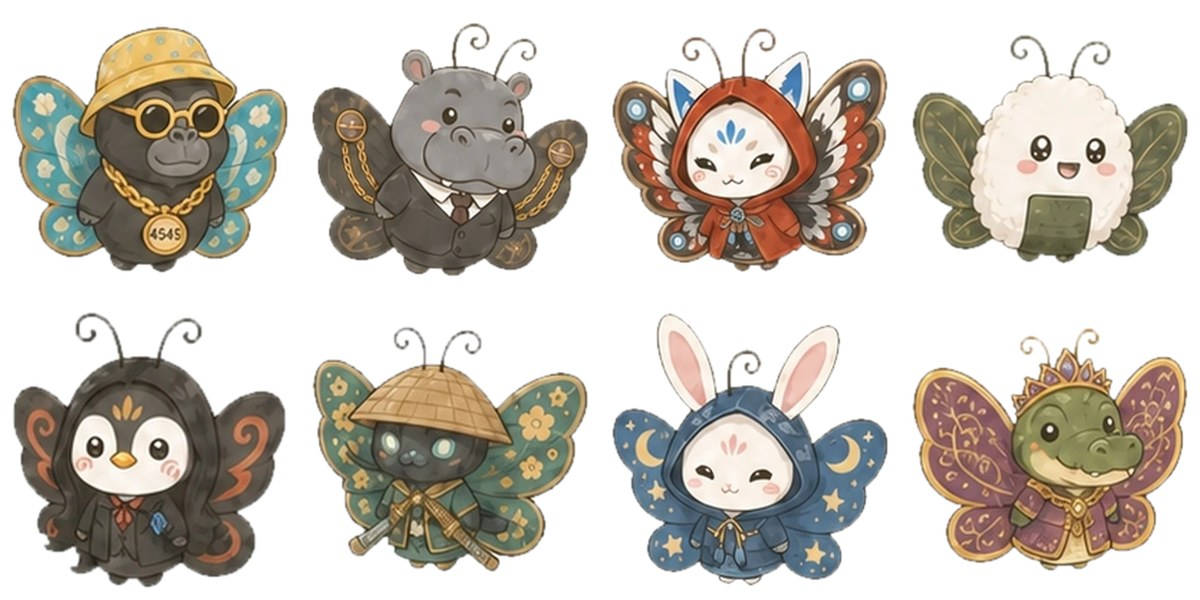
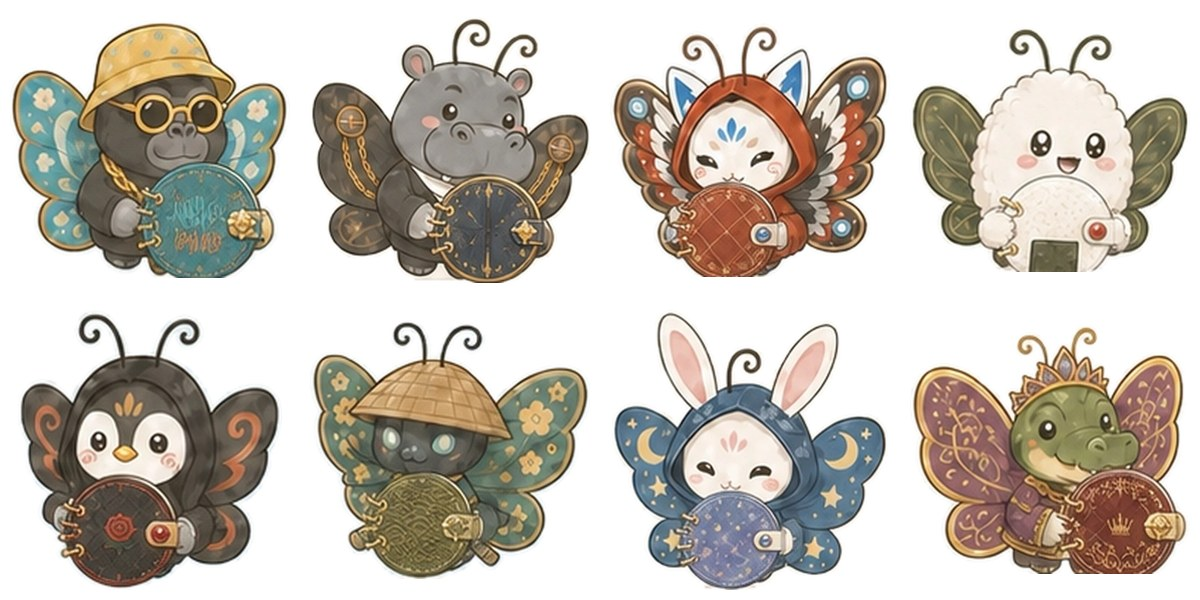
Jupiter: butterflies hug round sticker books (new art); tapping one opens the book with posts as round stickers
Claude-Session: https://claude.ai/code/session_019m5fyPtDtkNLRoPz7v9VsW

diff --git a/apps/web/components/jupiter/PatapataWorld.tsx b/apps/web/components/jupiter/PatapataWorld.tsx
@@ -450,22 +450,37 @@ export function PatapataWorld({ events, overlay, topInset = 0, live = false }: {
   );
 }
 
-/** Someone's posts of the last 88 hours, one after another (like stories). */
+/** Leather colours for the sticker-book covers (picked per person). */
+const COVERS = ['#3b2a20', '#22324a', '#6b2a22', '#2f4a3a', '#4a2f4f', '#5a4626', '#1f3f46'];
+const coverOf = (f: Flyer) => f.wing && !f.art && !f.src ? f.wing : COVERS[[...f.key].reduce((n, c) => n + c.charCodeAt(0), 0) % COVERS.length];
+
+/**
+ * Someone's posts as a round sticker book (client design 2026-10-07: every butterfly hugs one).
+ * The book pops out, its cover swings open, and each post is a round sticker on a round page;
+ * tap the right / left half (or つぎへ) to turn the pages.
+ */
 function StoryViewer({ flyer, start, onClose, onStar, onTree }: { flyer: Flyer; start: number; onClose: () => void; onStar: (p: ViewPost) => void; onTree?: () => void }) {
   const [i, setI] = useState(start);
+  const [dir, setDir] = useState(0);
   const post = flyer.posts[i];
-  const next = () => (i + 1 < flyer.posts.length ? setI(i + 1) : onClose());
-  const prev = () => setI(Math.max(0, i - 1));
+  const next = () => {
+    if (i + 1 >= flyer.posts.length) return onClose();
+    setDir(1);
+    setI(i + 1);
+  };
+  const prev = () => {
+    if (i === 0) return;
+    setDir(-1);
+    setI(i - 1);
+  };
   if (!post) return null;
+  const cover = coverOf(flyer);
+  const tilt = ((i * 37) % 9) - 4;
   return (
-    <div className="absolute inset-0 z-50 flex flex-col items-center justify-center bg-[#5b4330]/55 px-5 backdrop-blur-sm" onClick={onClose}>
-      <div className="w-full max-w-md rounded-[2rem] bg-[#fffaf2] p-5 shadow-2xl" onClick={(e) => e.stopPropagation()}>
-        <div className="mb-3 flex gap-1">
-          {flyer.posts.map((p, k) => (
-            <span key={p.id} className={`h-1 flex-1 rounded-full ${k <= i ? 'bg-amber-400' : 'bg-amber-100'}`} />
-          ))}
-        </div>
-        <div className="mb-3 flex items-center gap-2">
+    <div className="absolute inset-0 z-50 flex flex-col items-center justify-center bg-[#5b4330]/60 px-4 backdrop-blur-sm" onClick={onClose}>
+      <div className="flex w-full max-w-md flex-col items-center" onClick={(e) => e.stopPropagation()}>
+        {/* who */}
+        <div className="mb-3 flex w-full items-center gap-2 rounded-full bg-[#fffaf2]/95 py-1 pl-1 pr-2 shadow">
           <button onClick={onTree} disabled={!onTree} className="flex min-w-0 items-center gap-2 text-left" aria-label="木をみる">
             <Butterfly art={flyer.art} src={flyer.src} emoji={flyer.emoji} img={flyer.img} wing={flyer.wing} size={40} />
             <span className="truncate font-bold">@{flyer.handle}</span>
@@ -476,21 +491,58 @@ function StoryViewer({ flyer, start, onClose, onStar, onTree }: { flyer: Flyer; 
             ✕
           </button>
         </div>
-        <div className="relative mx-auto w-[min(100%,340px)]" style={{ containerType: 'inline-size' }}>
-          <PostCircle media={post.media} filter={post.filter} text={post.text} live className="shadow-[0_12px_40px_rgba(120,80,40,0.3)]" />
-          <button onClick={prev} className="absolute inset-y-0 left-0 w-1/3" aria-label="まえ" />
-          <button onClick={next} className="absolute inset-y-0 right-0 w-1/3" aria-label="つぎ" />
+
+        {/* the round sticker book */}
+        <div className="relative aspect-square w-[min(86vw,420px)] animate-[bookIn_0.55s_ease-out]" style={{ perspective: 1400 }}>
+          {/* the page */}
+          <div
+            className="absolute inset-0 rounded-full border-[6px] shadow-[0_18px_40px_rgba(60,35,15,.45)]"
+            style={{ borderColor: cover, background: 'radial-gradient(circle at 45% 40%, #fffaf0 0%, #f6ead3 62%, #e9d6b4 100%)' }}
+          >
+            <div className="absolute inset-[5%] rounded-full border-2 border-dashed border-[#c9ab82]/70" />
+            {/* the turning page with its sticker */}
+            <div key={post.id} className="absolute inset-0" style={{ transformOrigin: '0% 50%', animation: dir ? 'pageFlip 0.45s ease-out' : undefined }}>
+              <div className="absolute inset-[15%]" style={{ containerType: 'inline-size', ['--tilt' as string]: `${tilt}deg`, animation: `stickerPop 0.45s ease-out ${dir ? '0.18s' : '0.55s'} both` }}>
+                <div className="h-full w-full rounded-full bg-white p-[3%] shadow-[0_6px_14px_rgba(90,60,30,.35)]">
+                  <PostCircle media={post.media} filter={post.filter} text={post.text} live />
+                </div>
+              </div>
+            </div>
+          </div>
+          {/* ring binding on the left, clasp on the right */}
+          {[-30, -15, 0, 15, 30].map((d) => (
+            <span key={d} className="absolute left-[-1.5%] h-[5%] w-[7%] rounded-full border-[3px] border-[#c9a05a] bg-transparent shadow" style={{ top: `${47 + d}%` }} />
+          ))}
+          <span className="absolute right-[-3%] top-[44%] h-[12%] w-[9%] rounded-md border-2 border-[#c9a05a] shadow" style={{ background: cover }} />
+          {/* the cover swings open once */}
+          <div
+            className="pointer-events-none absolute inset-0 flex items-center justify-center rounded-full border-[6px] border-[#c9a05a] shadow-xl"
+            style={{ background: `radial-gradient(circle at 40% 35%, ${cover}cc, ${cover} 70%)`, transformOrigin: '0% 50%', backfaceVisibility: 'hidden', animation: 'bookOpen 0.7s ease-in-out 0.35s forwards' }}
+          >
+            <div className="absolute inset-[8%] rounded-full border-2 border-[#c9a05a]/70" />
+            <div className="opacity-90">
+              <Butterfly art={flyer.art} src={flyer.src} emoji={flyer.emoji} img={flyer.img} wing={flyer.wing} size={120} />
+            </div>
+          </div>
+          {/* turn the pages */}
+          <button onClick={prev} className="absolute inset-y-0 left-0 w-1/2" aria-label="まえ" />
+          <button onClick={next} className="absolute inset-y-0 right-0 w-1/2" aria-label="つぎ" />
         </div>
-        <div className="mt-3 flex items-center justify-center gap-3">
-          <p className="text-xs text-[#b09276]">{flyer.posts.length > 1 ? `${i + 1} / ${flyer.posts.length}（88時間以内の投稿）` : '88時間以内の投稿'}</p>
+
+        <div className="mt-4 flex items-center justify-center gap-3">
+          <div className="flex gap-1">
+            {flyer.posts.map((p, k) => (
+              <span key={p.id} className={`h-2 w-2 rounded-full ${k === i ? 'bg-amber-400' : 'bg-white/70'}`} />
+            ))}
+          </div>
           {post.star && (
-            <button onClick={() => onStar(post)} className={`rounded-full px-3 py-1 text-xs font-bold ${post.star.mine ? 'bg-amber-100 text-amber-600' : 'bg-white text-[#9b8068] shadow-sm'}`} aria-label="star">
+            <button onClick={() => onStar(post)} className={`rounded-full px-3 py-1 text-xs font-bold shadow-sm ${post.star.mine ? 'bg-amber-100 text-amber-600' : 'bg-white text-[#9b8068]'}`} aria-label="star">
               {post.star.mine ? '★' : '☆'} {post.star.count}
             </button>
           )}
         </div>
-        <button onClick={next} className="mt-3 w-full rounded-full bg-amber-500 py-2.5 text-sm font-bold text-white">
-          {i + 1 < flyer.posts.length ? 'つぎへ' : 'とじる'}
+        <button onClick={next} className="mt-3 w-[min(86vw,420px)] rounded-full bg-amber-500 py-2.5 text-sm font-bold text-white shadow">
+          {i + 1 < flyer.posts.length ? 'ページをめくる' : 'シール帳をとじる'}
         </button>
       </div>
     </div>

diff --git a/apps/web/lib/jupiter/residents.ts b/apps/web/lib/jupiter/residents.ts
@@ -1,6 +1,6 @@
 /**
  * Sample residents of Jupiter for the demo (P-JUP-2). Butterfly art is cut out of the client's
- * パタパタ mock (public/onboarding/bf-*.webp); residents without art fly as a NEO emblem with wings.
+ * パタパタ mock (public/onboarding/bfb-*.webp, each holding a round sticker book); residents without art fly as a NEO emblem with wings.
  * Posts are emoji "photos" (gradient + emoji) until real sample photos exist.
  */
 export interface SamplePost {
@@ -61,14 +61,14 @@ const leaves = (seed: number): SamplePost[] => [
 ];
 
 export const RESIDENTS: Resident[] = [
-  { id: 'kitsune', handle: 'kitsune', art: 'bf-kitsune', friend: true, fruits: 12, friends: 846, posts: [p('🍁', 18, '紅葉、はじまってた', 3, 'walk'), p('🍠', 30, 'やきいも屋さん発見', 5, 'food'), ...leaves(0)] },
-  { id: 'kaba_boss', handle: 'kaba_boss', art: 'bf-kaba_boss', friend: false, fruits: 3, friends: 120, posts: [p('☕', 28, '朝の一杯で、今日もがんばる', 8, 'food'), ...leaves(4)] },
-  { id: 'usagi', handle: 'usagi', art: 'bf-usagi', friend: true, fruits: 20, friends: 1203, posts: [p('🌕', 220, '今夜は月がきれい', 55, 'walk'), p('🍡', 340, 'お月見だんご', 56, 'food'), p('🐇', 300, 'ぴょん', 57, 'walk'), ...leaves(8)] },
-  { id: 'onigiri', handle: 'onigiri', art: 'bf-onigiri', friend: false, fruits: 7, friends: 310, posts: [p('🍙', 95, 'きょうのお昼は鮭', 72, 'food'), ...leaves(12)] },
-  { id: 'wani_queen', handle: 'wani_queen', art: 'bf-wani_queen', friend: true, fruits: 31, friends: 2900, posts: [p('👑', 45, '女王の休日', 40, 'trip'), p('🌹', 350, '', 41, 'walk'), ...leaves(16)] },
-  { id: 'gori4545', handle: 'gori4545', art: 'bf-gori4545', friend: false, fruits: 9, friends: 4545, posts: [p('🍌', 52, 'バナナは正義', 81, 'food'), ...leaves(20)] },
-  { id: 'pen_lady', handle: 'pen_lady', art: 'bf-pen_lady', friend: true, fruits: 15, friends: 640, posts: [p('🧊', 195, '南極から来ました', 47, 'trip'), p('🐟', 210, '', 48, 'food'), ...leaves(24)] },
-  { id: 'samurai806', handle: 'samurai806', art: 'bf-samurai806', friend: false, fruits: 6, friends: 806, posts: [p('🗻', 205, '富士山、近かった', 30, 'trip'), ...leaves(28)] },
+  { id: 'kitsune', handle: 'kitsune', art: 'bfb-kitsune', friend: true, fruits: 12, friends: 846, posts: [p('🍁', 18, '紅葉、はじまってた', 3, 'walk'), p('🍠', 30, 'やきいも屋さん発見', 5, 'food'), ...leaves(0)] },
+  { id: 'kaba_boss', handle: 'kaba_boss', art: 'bfb-kaba_boss', friend: false, fruits: 3, friends: 120, posts: [p('☕', 28, '朝の一杯で、今日もがんばる', 8, 'food'), ...leaves(4)] },
+  { id: 'usagi', handle: 'usagi', art: 'bfb-usagi', friend: true, fruits: 20, friends: 1203, posts: [p('🌕', 220, '今夜は月がきれい', 55, 'walk'), p('🍡', 340, 'お月見だんご', 56, 'food'), p('🐇', 300, 'ぴょん', 57, 'walk'), ...leaves(8)] },
+  { id: 'onigiri', handle: 'onigiri', art: 'bfb-onigiri', friend: false, fruits: 7, friends: 310, posts: [p('🍙', 95, 'きょうのお昼は鮭', 72, 'food'), ...leaves(12)] },
+  { id: 'wani_queen', handle: 'wani_queen', art: 'bfb-wani_queen', friend: true, fruits: 31, friends: 2900, posts: [p('👑', 45, '女王の休日', 40, 'trip'), p('🌹', 350, '', 41, 'walk'), ...leaves(16)] },
+  { id: 'gori4545', handle: 'gori4545', art: 'bfb-gori4545', friend: false, fruits: 9, friends: 4545, posts: [p('🍌', 52, 'バナナは正義', 81, 'food'), ...leaves(20)] },
+  { id: 'pen_lady', handle: 'pen_lady', art: 'bfb-pen_lady', friend: true, fruits: 15, friends: 640, posts: [p('🧊', 195, '南極から来ました', 47, 'trip'), p('🐟', 210, '', 48, 'food'), ...leaves(24)] },
+  { id: 'samurai806', handle: 'samurai806', art: 'bfb-samurai806', friend: false, fruits: 6, friends: 806, posts: [p('🗻', 205, '富士山、近かった', 30, 'trip'), ...leaves(28)] },
   // without art: they fly as an emblem with wings (like a NEO without custom art)
   { id: 'neko_mimi', handle: 'neko_mimi', emoji: '🐈', wing: '#f3b4a6', friend: true, fruits: 4, friends: 88, posts: [p('🐈', 25, 'ねこ、ひなたぼっこ中', 12, 'walk'), ...leaves(32)] },
   { id: 'kuma_cafe', handle: 'kuma_cafe', emoji: '🐻', wing: '#c9a27a', friend: false, fruits: 11, friends: 512, posts: [p('🥞', 35, '新作パンケーキ！', 20, 'food'), p('🍯', 45, '', 21, 'food'), ...leaves(36)] },

diff --git a/packages/ai/src/images.ts b/packages/ai/src/images.ts
@@ -100,7 +100,8 @@ export function refineLookPrompt(instruction: string): string {
  */
 /**
  * Jupiter butterfly (client request 2026-10-07: new art is made with Gemini): a cute chibi
- * character with butterfly wings, in the style of the client's パタパタ butterflies (style sheet).
+ * character with butterfly wings holding a round sticker book, in the style of the client's
+ * パタパタ butterflies (style sheet).
  */
 export function butterflyPrompt(description: string, hasReference: boolean, variant: number): string {
   const moods = ['happy and smiling', 'calm and gentle', 'proud and cheerful', 'shy with a soft smile'];
@@ -109,6 +110,8 @@ export function butterflyPrompt(description: string, hasReference: boolean, vari
     'soft hand-painted storybook illustration, warm muted colours, a round chubby little body standing upright, a big head, ' +
     'small shiny eyes, pink blush, two curly antennae on top, and two big rounded butterfly wings spread behind the body with ' +
     'pretty patterns that match the character (flowers, moons, stars, swirls). Outfit and accessories match the concept. ' +
+    'The character hugs a ROUND sticker book (a round album with ring binding on the left and a small clasp on the right) in ' +
+    'front of its belly with both hands, decorated to match the character, exactly like every character on the style sheet. ' +
     `Character concept: "${description}". Mood: ${moods[variant % moods.length]}. ` +
     (hasReference ? 'Use the SECOND attached image as the character to turn into this butterfly (keep its colours, face and motifs). ' : '') +
     'Composition: front view, the whole character and both wings fully visible and centered, filling about 85% of a square frame. ' +

diff --git a/apps/web/components/jupiter/JupiterTutorial.tsx b/apps/web/components/jupiter/JupiterTutorial.tsx
@@ -12,8 +12,8 @@ import { PatapataWorld } from './PatapataWorld';
  */
 type Wait = 'open' | 'close' | 'next' | 'egg' | 'pick' | 'post' | 'tree' | 'done';
 const STEPS: { text: string; wait: Wait; hint?: string }[] = [
-  { text: '空を舞っているのは、みんなの投稿DA。\n気になる蝶を、タップしてみるのDA。', wait: 'open', hint: '🦋 蝶をタップ' },
-  { text: '88時間以内の投稿は、ぜんぶ見られるのDA。\n見終わったら、とじるのDA。', wait: 'close', hint: '「とじる」をタップ' },
+  { text: '空を舞っているのは、みんなの投稿DA。\nみんな、丸いシール帳を持っているのDA。\n気になる蝶を、タップしてみるのDA。', wait: 'open', hint: '🦋 蝶をタップ' },
+  { text: '88時間以内の投稿は、ぜんぶ見られるのDA。\n見終わったら、シール帳をとじるのDA。', wait: 'close', hint: '「シール帳をとじる」をタップ' },
   { text: '見終わった蝶は飛んでいき、\nまた別の蝶がやってくるのDA。', wait: 'next' },
   { text: '次は君の番DA。\nたまごを押してみるのDA。', wait: 'egg', hint: '👇 たまごをタップ' },
   { text: 'ここは根っこ。君だけのデータフォルダDA。\n撮った写真は、まずここにしまわれるのDA。\n動画は、火星の裏スタジオにしまうのDA。\nひとつ選ぶのDA。', wait: 'pick', hint: '写真をひとつ選ぶ' },

diff --git a/apps/web/app/globals.css b/apps/web/app/globals.css
@@ -470,3 +470,23 @@ body {
   65% { opacity: 1; }
   100% { transform: translateY(-45%) scale(1.2); opacity: 0; }
 }
+
+/* Jupiter: the round sticker book opens (cover swings to the left), pages turn */
+@keyframes bookOpen {
+  0% { transform: rotateY(0deg); }
+  100% { transform: rotateY(-168deg); }
+}
+@keyframes bookIn {
+  0% { transform: scale(0.35) translateY(30%); opacity: 0; }
+  60% { transform: scale(1.04) translateY(0); opacity: 1; }
+  100% { transform: scale(1); }
+}
+@keyframes pageFlip {
+  0% { transform: rotateY(-95deg); opacity: 0.4; }
+  100% { transform: rotateY(0deg); opacity: 1; }
+}
+@keyframes stickerPop {
+  0% { transform: scale(0.6) rotate(var(--tilt)); opacity: 0; }
+  70% { transform: scale(1.06) rotate(var(--tilt)); opacity: 1; }
+  100% { transform: scale(1) rotate(var(--tilt)); }
+}

diff --git a/apps/web/lib/api/demo.ts b/apps/web/lib/api/demo.ts
@@ -676,7 +676,7 @@ export class DemoApi implements Api {
   async butterflyCandidates(): Promise<PuniPicResult> {
     await sleep(900);
     const all = ['kitsune', 'usagi', 'onigiri', 'pen_lady', 'wani_queen', 'samurai806'].sort(() => Math.random() - 0.5).slice(0, 2);
-    const candidates = all.map((n) => ({ id: uid(), url: `/onboarding/bf-${n}.webp` }));
+    const candidates = all.map((n) => ({ id: uid(), url: `/onboarding/bfb-${n}.webp` }));
     this.lookCache.push(...candidates);
     return { candidates, left: 99 };
   }

diff --git a/docs/placeholders.md b/docs/placeholders.md
@@ -61,7 +61,7 @@
 | P-MER-1 | 🟡 | 水星の画面（海・島） | クライアントのデザイン（第2版）どおりに実装。海・船・島・宝箱の絵はデザイン画から切り出したもの。正式な素材（文字なしの海、船、島の種類）が届いたら差し替え。作曲画面は次のデザイン待ち | `components/mercury/MercuryWorld.tsx`、`public/onboarding/mercury-*.jpg`、`ship-*.webp`、`chest-*.webp` |
 | P-MER-2 | 🟡 | 水星のデータ | 船8人とその曲はサンプル（絵文字のレコード、音はシンセ）。自分のデモ曲3つはデザイン画のレコード。自分の島・星はこの端末だけに保存。友達の島へ行く入口はまだない | `lib/mercury/sea.ts`、`lib/mercury/state.ts` |
 | P-MER-3 | 🟡 | 水星の作曲 | **会話と曲の設計図は本物のAI（Gemini）**：パートナー（KIMORIN／バティ）と話す → ジャンルを選ぶ → 曲名・歌詞（ひらがな付き）・コード・テンポ・メロディ（1音ずつ）ができる。試し聴きはブラウザのシンセでメロディとコードを鳴らすだけ。**伴奏（MusicGen）と歌（DiffSinger）はまだ**（GPUサーバー待ち）。デモモードでは従来の仮の作曲 | `apps/api/src/compose/`、`packages/ai/src/song.ts`、`components/mercury/ComposeChat.tsx` |
-| P-JUP-1 | 🟡 | 木星（パタパタ）の画面 | クライアントのデザイン（空・木）どおりに実装。蝶と木の絵はモックから切り出したもの。正式な素材（蝶の絵、写真・文字なしの木）が届いたら差し替え | `components/jupiter/PatapataWorld.tsx`、`public/onboarding/bf-*.webp`、`jupiter-tree.webp` |
+| P-JUP-1 | 🟡 | 木星（パタパタ）の画面 | クライアントのデザイン（空・木）どおりに実装。蝶の絵は 2026-10-07 クライアントの新しい絵（全員が丸いシール帳を持っている）から切り出し（`bfb-*.webp`、背景を透明に）。蝶をタップすると、丸いシール帳が飛び出して表紙が開き、投稿が丸いシールとして貼られたページが出る（タップ／「ページをめくる」でめくる、☆、@名前から木へ）。表紙の色は人ごとの革の色（仮）。🦋蝶を描いてもらう の見本も新しい絵に差し替え、シール帳を持った蝶を描くようにした。木の絵はモックから切り出したもの（正式な素材が届いたら差し替え） | `components/jupiter/PatapataWorld.tsx`、`public/onboarding/bfb-*.webp`、`jupiter-tree.webp`、`apps/api/assets/butterfly-style.jpg` |
 | P-JUP-2 | ✏ | 木星のデータ（サーバー接続済み 2026-10-07） | /jupiter はサーバーにつながった：根っこ（自分だけ）・投稿（88時間蝶→葉っぱ）・空（みんな／フォロー／ダチ、1人1匹）・木（葉／実＝もらった☆／トモダチ＝相互フォロー）・フォロー（土星と同じフォロー）・☆・探す（名前検索）。写真は WebP、動画は8秒に切って MP4＋ポスター画像。仮：みんなの空は、本物の蝶が8匹に満たないぶんサンプル住人12人で埋める（フォロー・ダチには出さない）。並び順は新しい順。5日目のチュートリアルは今まで通りこの端末だけで動く | `apps/api/src/jupiter/`、`apps/api/drizzle/0013_jupiter.sql`、`components/jupiter/PatapataWorld.tsx`、`lib/jupiter/residents.ts` |
 | P-JUP-3 | ✅ | 木星の動画 → 火星へ | クライアント決定 2026-10-07：木星は写真だけ。動画はすべて火星の裏スタジオに保存（P-MARS-4）。以前の8秒動画の投稿は、そのまま見られる（最初の8秒をくり返し） | `components/jupiter/PatapataWorld.tsx`、`apps/api/src/jupiter/jupiter.service.ts` |
 | P-JUP-4 | ✏ | 枝・実・加工 | 枝は4つ（最初は旅行・ごはん・おさんぽ・おまつり）。木の札をタップすると自分の木の枝の名前を変えられる（8文字まで。木の絵に描かれた札の上に、コードで描いた札を重ねている）。「実」＝木星の投稿にもらった☆の数（仮）。加工は5種類の色フィルター＋ひとこと（マイク入力可） | `components/jupiter/PatapataWorld.tsx`、`apps/api/src/jupiter/jupiter.service.ts` |

diff --git a/docs/jupiter.md b/docs/jupiter.md
@@ -28,7 +28,7 @@
 
 ## 蝶と空（タイムライン）
 - 蝶は **88時間**、フォローしてくれている人のタイムライン（**空**）を飛び続ける（ストーリーのような仕組み）
-- 蝶をタップすると投稿が見られる
+- 蝶をタップすると投稿が見られる（✅ 2026-10-07：みんな丸いシール帳を持っていて、タップするとシール帳が開き、投稿が丸いシールとして貼られている）
 - 88時間以内に複数投稿していれば、その投稿が全部見られる
 - 88時間たつと、自分の木の **葉っぱ** に戻る
 
